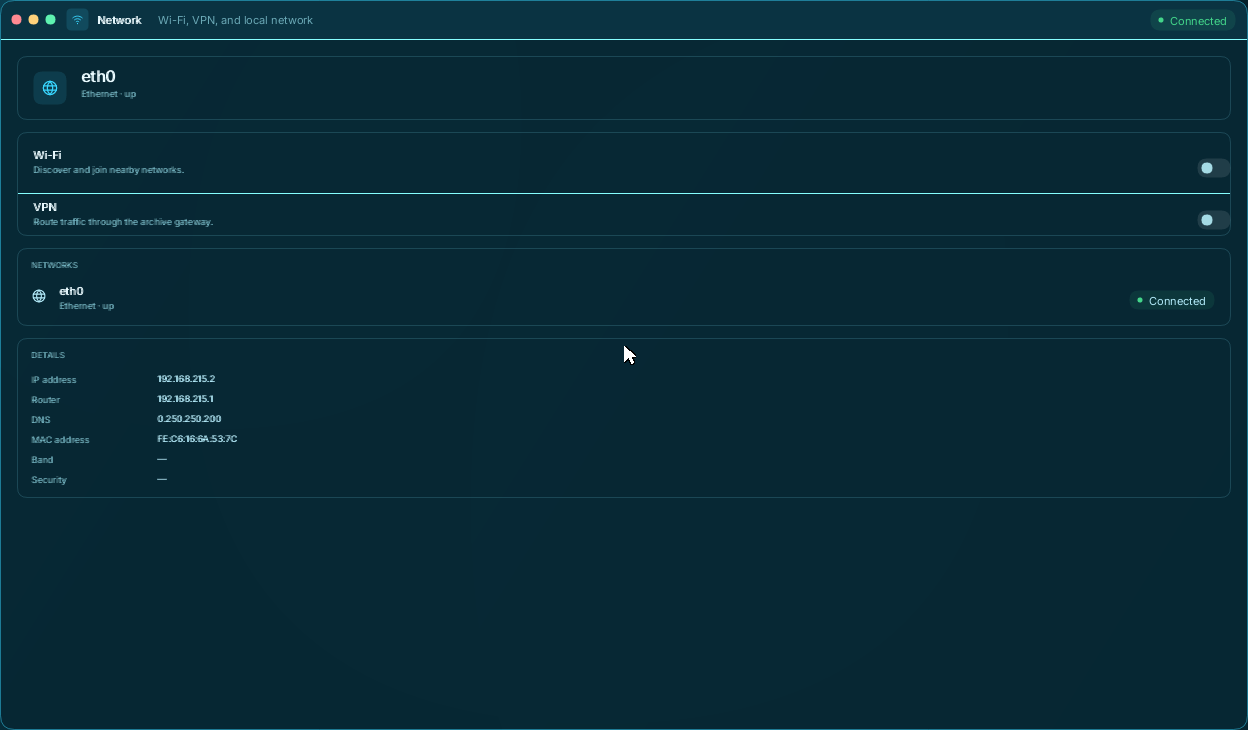
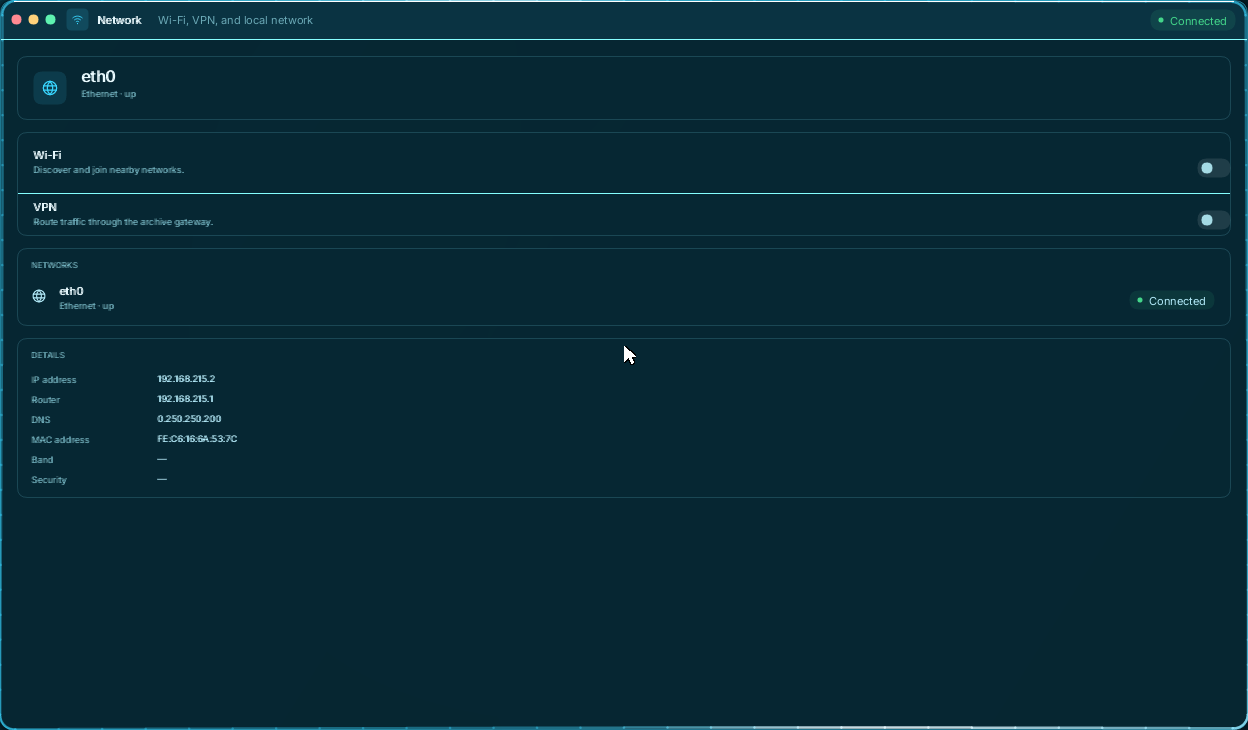
fix(shell): add the window inset highlight
Match the demo's inset 0 1px rgba(255,255,255,.07) on first-party
windows, the explorer, calendar, task manager and client frames. Closes
V9 in the visual spec. Refresh the app captures and report.

Changed region(s): [[0.0, 0.9945, 1.0, 1.0], [0.8125, 0.0, 1.0, 0.0301], [0.0, 0.0, 0.0312, 0.0301]]

diff --git a/reports/os-app-parity/index.html b/reports/os-app-parity/index.html
@@ -42,7 +42,7 @@
   <p class="lede">Every surface from the Water OS demo next to the current Aether compositor. Captures are element or window crops only — no full-desktop frames.</p>
   <p class="meta">
     <span>Source · a72f82d Give dropdown chevrons more breathing room (+ local changes)</span>
-    <span>Aether · c2df4dc chore(screenshots): capture the system apps in the shell pipeline</span>
+    <span>Aether · b453fe9 docs(parity): add the formal visual spec and difference register</span>
     <span>1280×800 · clock pinned to 2026-11-18 16:47 UTC</span>
   </p>
   <div class="stats">
@@ -316,6 +316,6 @@
         <div class="pair"><figure class="empty"><div>No source surface</div><figcaption>—</figcaption></figure><figure><img src="aether/remote.png" alt="Aether Remote display"><figcaption>Aether · 620x420</figcaption></figure></div>
         <p class="notes">Pairing code, WebRTC transport and the recording indicator.</p>
       </section>
-  <footer>Generated by <code>scripts/screenshots/app-parity.mjs</code>. Roadmap: <code>ROADMAP.md</code>.</footer>
+  <footer>Generated by <code>scripts/screenshots/app-parity.mjs</code>. Roadmap: <code>ROADMAP.md</code> · Visual spec: <code>VISUAL-SPEC.md</code>.</footer>
 </body>
 </html>

diff --git a/os/compositor/aether-shell-wayland/src/render/window_frame.rs b/os/compositor/aether-shell-wayland/src/render/window_frame.rs
@@ -87,6 +87,17 @@ impl App {
 
         // Focused windows carry the accent rim along the top edge and down the
         // sides; unfocused windows use the neutral line.
+        let highlight =
+            SolidColorBuffer::new((width.saturating_sub(28) as i32, 1), [1.0, 1.0, 1.0, 0.07]);
+        elements.push(AetherRenderElement::from(
+            SolidColorRenderElement::from_buffer(
+                &highlight,
+                (x + 14, y + 1),
+                1.0f64,
+                1.0,
+                Kind::Unspecified,
+            ),
+        ));
         let rim = if focused {
             tokens.accent(120)
         } else {

diff --git a/os/compositor/aether-shell-wayland/src/render/surfaces/explorer.rs b/os/compositor/aether-shell-wayland/src/render/surfaces/explorer.rs
@@ -66,6 +66,10 @@ impl App {
         ) {
             ui.panel(Some(buffer), rect.x, rect.y);
         }
+        ui.solid(
+            AetherRect::new(rect.x + 14, rect.y + 1, rect.width.saturating_sub(28), 1),
+            [1.0, 1.0, 1.0, 0.07],
+        );
         for (index, color) in LIGHTS.into_iter().enumerate() {
             if let Some(buffer) = self.chrome_round(11, 11, 5, color) {
                 ui.panel(Some(buffer), rect.x + 11 + index as i32 * 17, rect.y + 14);

diff --git a/os/compositor/aether-shell-wayland/src/render/surfaces/system_app.rs b/os/compositor/aether-shell-wayland/src/render/surfaces/system_app.rs
@@ -118,6 +118,10 @@ impl App {
             ui.panel(Some(buffer), rect.x, rect.y);
         }
         ui.solid(
+            AetherRect::new(rect.x + 14, rect.y + 1, rect.width.saturating_sub(28), 1),
+            [1.0, 1.0, 1.0, 0.07],
+        );
+        ui.solid(
             AetherRect::new(rect.x + 1, rect.y + TITLEBAR_HEIGHT - 1, rect.width - 2, 1),
             [
                 RULE[0] as f32 / 255.0,

diff --git a/os/compositor/aether-shell-wayland/src/render/surfaces/calendar.rs b/os/compositor/aether-shell-wayland/src/render/surfaces/calendar.rs
@@ -50,6 +50,10 @@ impl App {
             panels.push((buffer, rect.x, rect.y));
         }
         chrome.push((
+            AetherRect::new(rect.x + 14, rect.y + 1, rect.width.saturating_sub(28), 1),
+            [1.0, 1.0, 1.0, 0.07],
+        ));
+        chrome.push((
             AetherRect::new(rect.x, rect.y + TITLEBAR_HEIGHT - 1, rect.width, 1),
             [
                 RULE[0] as f32 / 255.0,

diff --git a/reports/os-app-parity/ROADMAP.md b/reports/os-app-parity/ROADMAP.md
@@ -1,8 +1,9 @@
 # Water OS app parity · roadmap
 
 Source: `a72f82d Give dropdown chevrons more breathing room (+ local changes)` (local design-system/ checkout)
+Visual spec (source vs target, difference register): [`VISUAL-SPEC.md`](VISUAL-SPEC.md).
 
-Aether: `c2df4dc chore(screenshots): capture the system apps in the shell pipeline`
+Aether: `b453fe9 docs(parity): add the formal visual spec and difference register`
 
 Implemented **18** · partial **2** · missing **0** · out of scope **2** · Aether-only **4**.
 
